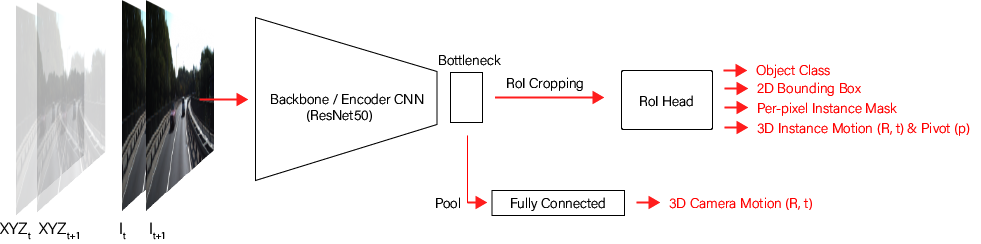
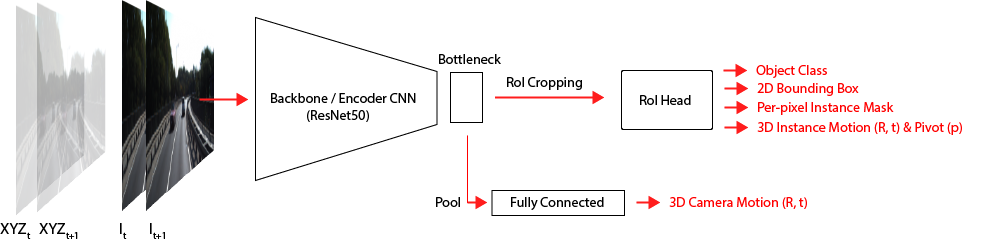
WIP

diff --git a/experiments.tex b/experiments.tex
@@ -113,7 +113,7 @@ first 144K iterations and $0.25 \cdot 10^{-3}$ for all remaining iterations.
 
 \begin{figure}[t]
   \centering
-  \includegraphics[width=\textwidth]{figures/vkitti}
+  \includegraphics[width=\textwidth]{figures/vkitti_cam}
 \caption{
 Visualization of results with XYZ input, camera motion prediction and 3D motion supervision
 with the ResNet (without FPN) architecture.
